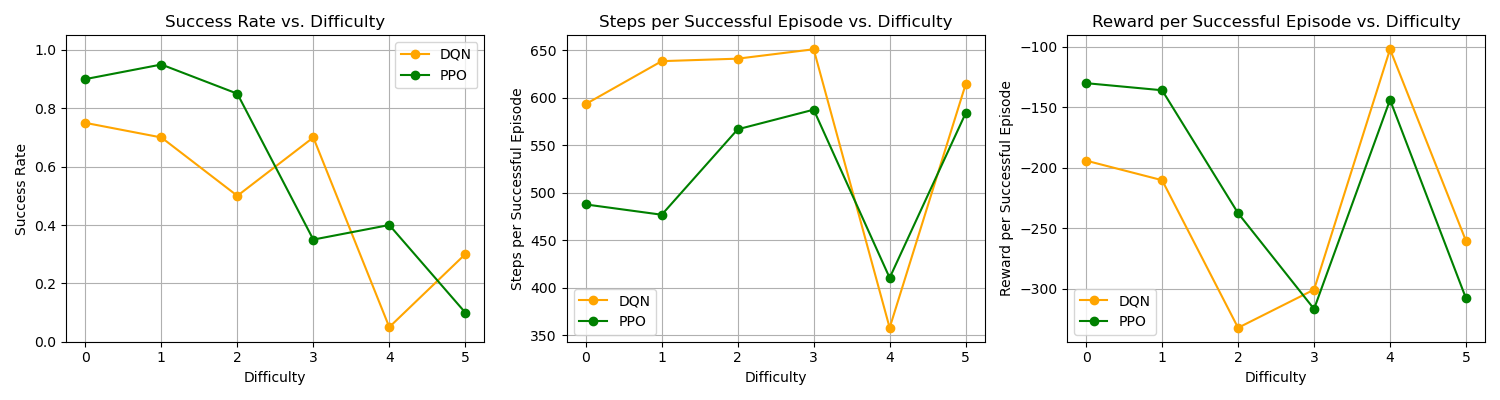
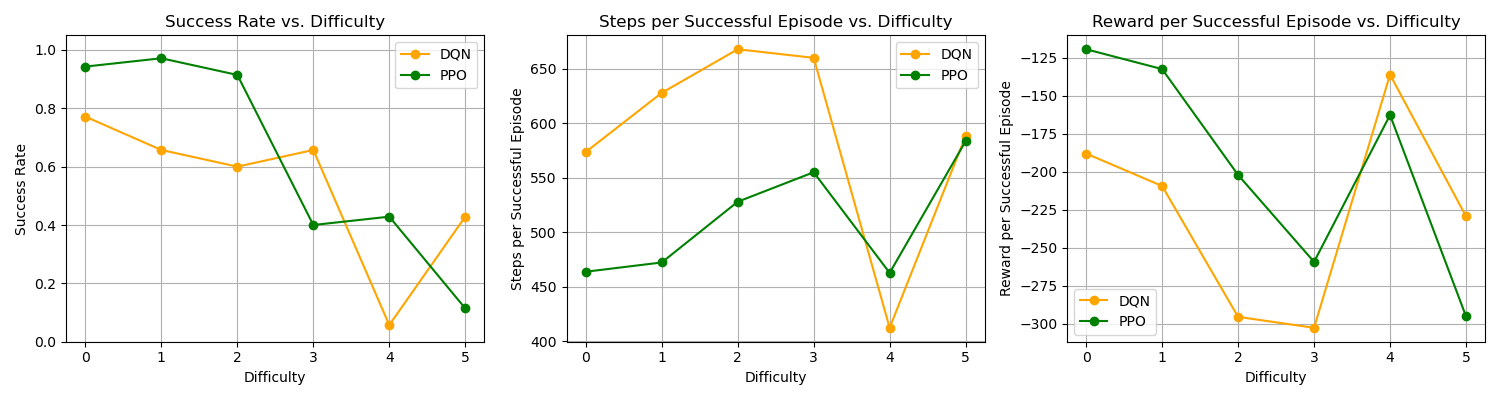
added new DQN to exp, increased power from 20 to 35

diff --git a/experiments_dqn_ppo.py b/experiments_dqn_ppo.py
@@ -273,7 +273,7 @@ def evaluate(model_path1: Path, model_path2: Path):
     agent2.load(model_path2)
 
     agents = [agent1, agent2]
-    reps = 20
+    reps = 35
     print("Agents Loaded Successfully!")
     experiment_stochasticity(agents, reps=reps)
     print("Experiment Stochasticity Finished!")
